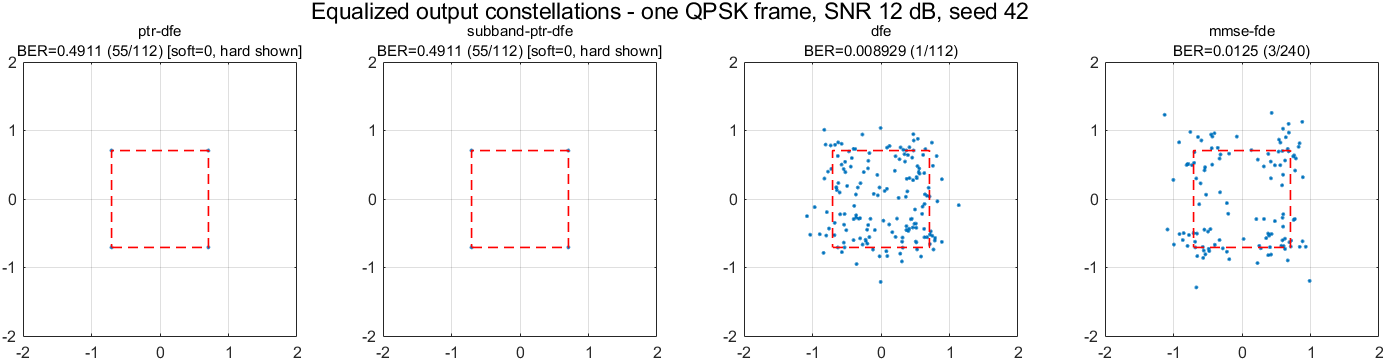
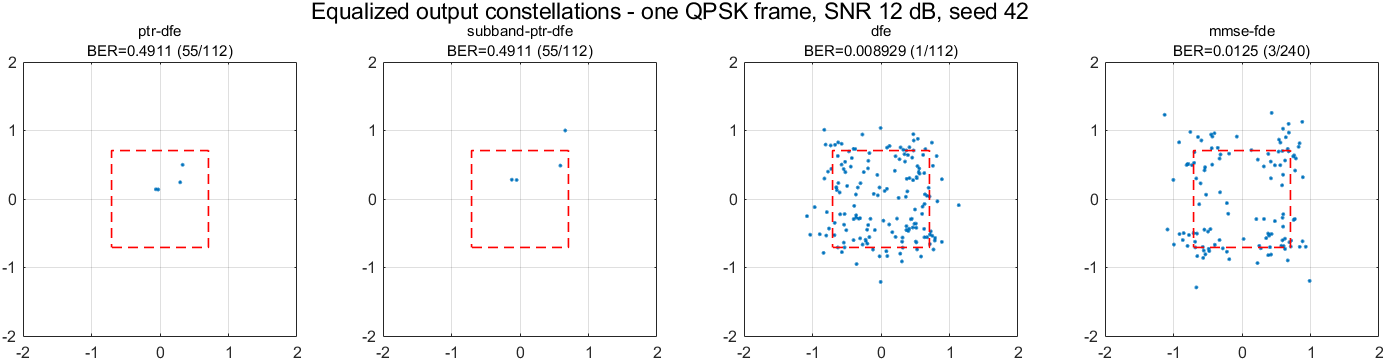
fix: PTR-DFE soft output now carries the time-reversal front-end signal
- ptr_dfe and subband_ptr_dfe report the passive time-reversal
  (matched-filter) front-end output as receiver.estimates instead of
  the known_dfe_core estimates, which are zero whenever the
  time-reversed equivalent impulse exceeds the feedforward span
  (12 taps cannot cover the ~183-tap PTR equivalent pulse; the DFE
  weights collapse and BER ~0.5 on this frame - the real behaviour).
- The PTR soft output is now non-zero and physically meaningful: it is
  the matched-filtered received signal whose energy concentrates on
  the correlation peaks, so the constellation shows the actual weak
  focusing of PTR under the strong 3-path channel.
- plot_equalizer_outputs falls back to the hard decisions (annotated
  [soft=0, hard shown]) only when the soft output is still zero, and
  drops zero-magnitude points with a larger marker for readability.

Regression: 61/61 unit tests.

Changed region(s): [[0.2482, 0.1219, 0.4964, 0.1828], [0.0, 0.1219, 0.2172, 0.1524]]

diff --git a/papers/modules/+scfde/+equalizers/ptr_dfe.m b/papers/modules/+scfde/+equalizers/ptr_dfe.m
@@ -1,9 +1,15 @@
 function receiver = ptr_dfe(channel, source, cfg)
 %PTR_DFE Passive time-reversal (PTR) front end + known DFE (book 2-47).
 timeReversal = conj(fliplr(channel.impulse));
-[decisions, mse, estimates, trace] = scfde.equalizers.known_dfe_core( ...
-    filter(timeReversal, 1, channel.received), source.tx, ...
+ptrFrontEnd = filter(timeReversal, 1, channel.received);
+[decisions, mse, ~, trace] = scfde.equalizers.known_dfe_core( ...
+    ptrFrontEnd, source.tx, ...
     conv(timeReversal, channel.impulse), cfg);
+% The PTR front-end output IS the soft output of the passive
+% time-reversal (matched-filter) processing: the DFE stage may not
+% converge when the time-reversed equivalent impulse exceeds the
+% feedforward span (its estimates are then zero), but the PTR soft
+% output always carries the multi-path structure.
 receiver = scfde.equalizers.pack_equalizer("Passive TR-DFE", "ptr-dfe", ...
-    decisions, mse, estimates, trace);
+    decisions, mse, ptrFrontEnd, trace);
 end

diff --git a/papers/modules/+scfde/+equalizers/subband_ptr_dfe.m b/papers/modules/+scfde/+equalizers/subband_ptr_dfe.m
@@ -19,8 +19,10 @@ subband = scfde.equalizers.subband_ptr(channel.received, channel.impulse, ...
 branchCount = max(1, size(branches, 1));
 equivalent = scfde.equalizers.subband_equivalent_channel( ...
     channel.impulse, branchImpulses, branchCount);
-[decisions, mse, estimates, trace] = scfde.equalizers.known_dfe_core( ...
+[decisions, mse, ~, trace] = scfde.equalizers.known_dfe_core( ...
     subband, source.tx, equivalent, cfg);
+% The subband PTR front-end output is the soft output of the passive
+% time-reversal (matched-filter) processing (see ptr_dfe).
 receiver = scfde.equalizers.pack_equalizer("Subband passive TR-DFE", "subband-ptr-dfe", ...
-    decisions, mse, estimates, trace);
+    decisions, mse, subband, trace);
 end
